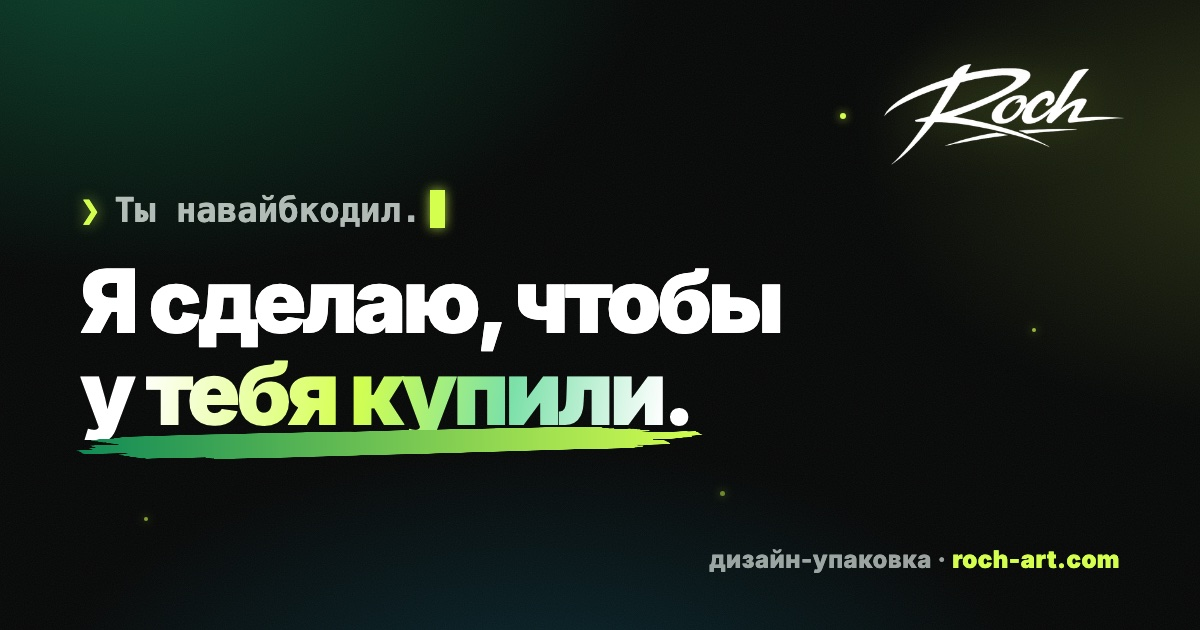
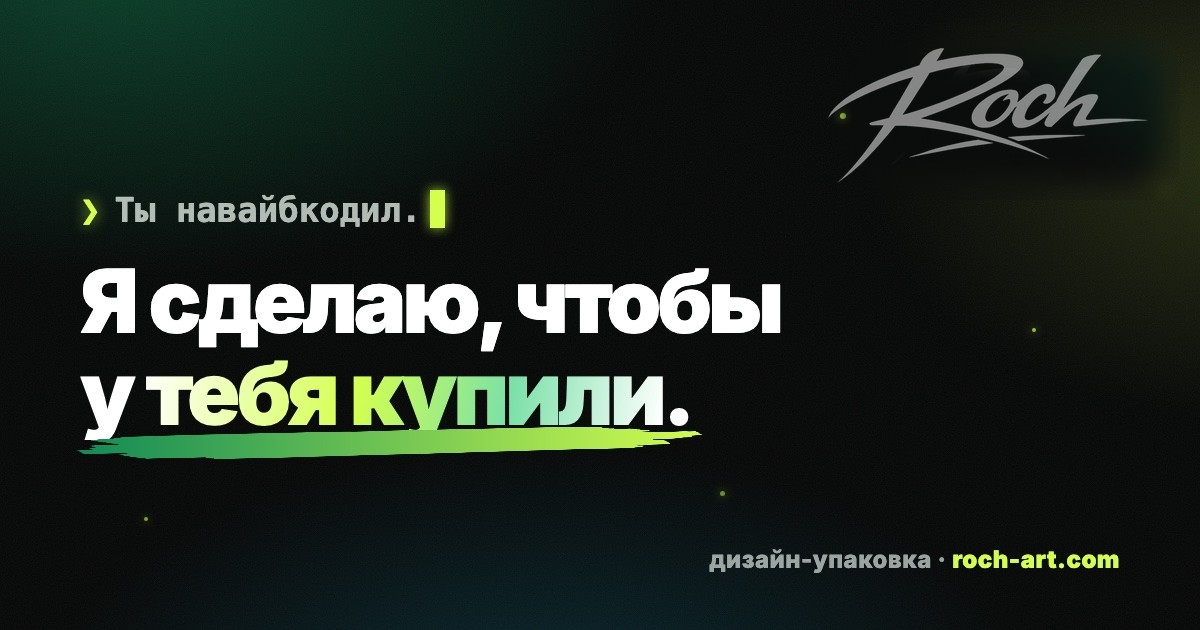
iOS-полировка: лента do-not-cross, edge-скримы (просветы UI), свайп-вниз лайтбокса и всех шитов, крестики 44-48px, авто-карусель до/после с уважением к пальцу, OG с официальным лого 50%

Changed region(s): [[0.7092, 0.0603, 0.9558, 0.2714], [0.6783, 0.1508, 0.7092, 0.181]]

diff --git a/index.html b/index.html
@@ -15,11 +15,11 @@
 <meta property="og:site_name" content="ROCH">
 <meta property="og:title" content="ROCH — дизайн-упаковка продукта: бренд, сайт, приложение">
 <meta property="og:description" content="Дизайн, аудит, геймификация. 10+ лет геймдева · 700M+ установок. Рабочий фикс, а не презентация.">
-<meta property="og:image" content="https://roch-art.com/assets/og-cover.jpg?v=3">
+<meta property="og:image" content="https://roch-art.com/assets/og-cover.jpg?v=4">
 <meta property="og:locale" content="ru_RU">
 <meta name="twitter:card" content="summary_large_image">
 <meta name="twitter:site" content="@broch">
-<meta name="twitter:image" content="https://roch-art.com/assets/og-cover.jpg?v=3">
+<meta name="twitter:image" content="https://roch-art.com/assets/og-cover.jpg?v=4">
 <link rel="icon" type="image/png" href="assets/favicon.png">
 <link rel="apple-touch-icon" href="assets/favicon.png">
 <link rel="preconnect" href="https://fonts.googleapis.com">
@@ -128,6 +128,13 @@ p.lead b{color:var(--text);font-weight:700}
   color:var(--lime);margin-bottom:14px}
 .eyebrow::before{content:'';width:22px;height:2px;border-radius:2px;background:var(--lime);
   box-shadow:0 0 8px rgba(212,255,79,.8)}
+
+/* ============ EDGE SCRIMS — контент не просвечивает под чёлкой и home-индикатором ============ */
+.edge-scrim{position:fixed;left:0;right:0;z-index:49;pointer-events:none}
+.edge-scrim.top{top:0;height:calc(env(safe-area-inset-top,0px) + 58px);
+  background:linear-gradient(180deg, rgba(5,7,6,.96) 28%, rgba(5,7,6,.62) 68%, transparent)}
+.edge-scrim.bot{bottom:0;height:calc(env(safe-area-inset-bottom,0px) + 40px);
+  background:linear-gradient(0deg, rgba(5,7,6,.96) 34%, rgba(5,7,6,.55) 72%, transparent)}
 
 /* ============ HEADER ============ */
 header{padding:16px 0 0;position:sticky;top:8px;z-index:50;transition:top .35s var(--ease)}
@@ -547,7 +554,14 @@ h1 .w i{animation-delay:var(--wd)}
   border:1px solid rgba(255,255,255,.14);
   box-shadow:0 30px 80px rgba(0,0,0,.7)}
 .lb-close{z-index:141}
-.lb .lb-close{position:absolute;top:calc(14px + env(safe-area-inset-top));right:16px}
+.lb .lb-close{position:absolute;top:calc(14px + env(safe-area-inset-top));right:14px;
+  width:48px;height:48px;border-radius:50%;border:1px solid rgba(255,255,255,.14);
+  background:rgba(16,20,17,.72);-webkit-backdrop-filter:blur(14px);backdrop-filter:blur(14px);
+  color:#fff;font-size:21px;line-height:1;display:flex;align-items:center;justify-content:center;
+  cursor:pointer;box-shadow:0 8px 26px rgba(0,0,0,.5), inset 0 1px 0 rgba(255,255,255,.14)}
+.lb .lb-close:active{transform:scale(.92)}
+/* iOS-свайп вниз: контейнер едет за пальцем и пружинит назад */
+.lb.snapback{transition:transform .3s var(--spring), opacity .3s var(--ease)}
 .lb-count{position:absolute;top:calc(22px + env(safe-area-inset-top));left:50%;transform:translateX(-50%);
   font-size:12px;font-weight:800;letter-spacing:.08em;color:var(--text2);
   font-variant-numeric:tabular-nums;pointer-events:none}
@@ -654,14 +668,15 @@ h1 .w i{animation-delay:var(--wd)}
 .chat-send:active{transform:scale(.9)}
 .chat-send svg{width:20px;height:20px;stroke:#0B1409;fill:none;stroke-width:2.2;stroke-linecap:round;stroke-linejoin:round}
 
-/* ============ MARQUEE ============ */
-.ticker-wrap{margin:14px 0 0;transform:rotate(-1.6deg);overflow:hidden;width:100%;max-width:100vw;
-  border-top:1px solid rgba(212,255,79,.25);border-bottom:1px solid rgba(212,255,79,.25);
-  background:rgba(212,255,79,.05)}
-.ticker{display:flex;width:max-content;animation:tick 22s linear infinite}
-.ticker span{padding:12px 0;font-size:13px;font-weight:800;letter-spacing:.16em;text-transform:uppercase;
-  color:var(--lime);white-space:nowrap}
-.ticker span i{font-style:normal;color:var(--text3);margin:0 16px}
+/* ============ MARQUEE — жёлтая лента «do not cross» ============ */
+.ticker-wrap{margin:18px -6% 0;width:112%;transform:rotate(-2.2deg);overflow:hidden;
+  background:var(--lime);
+  border-top:2px solid #0B1409;border-bottom:2px solid #0B1409;
+  box-shadow:0 14px 34px -12px rgba(0,0,0,.55), 0 0 44px -18px rgba(212,255,79,.5)}
+.ticker{display:flex;width:max-content;animation:tick 26s linear infinite}
+.ticker span{padding:11px 0;font-size:13px;font-weight:900;letter-spacing:.18em;text-transform:uppercase;
+  color:#0B1409;white-space:nowrap;font-variant-numeric:tabular-nums}
+.ticker span i{font-style:normal;color:#0B1409;opacity:.45;margin:0 16px}
 @keyframes tick{to{transform:translateX(-50%)}}
 
 /* ============ SERVICES ============ */
@@ -818,10 +833,11 @@ h1 .w i{animation-delay:var(--wd)}
 .copy-btn svg{width:16px;height:16px;stroke:currentColor;fill:none;stroke-width:2;stroke-linecap:round;stroke-linejoin:round}
 .copy-btn.done{background:var(--lime);color:#0B1409}
 .modal .m-tg{margin-top:14px}
-.modal .m-close{position:absolute;top:16px;right:18px;width:34px;height:34px;border-radius:50%;
+.modal .m-close{position:absolute;top:14px;right:14px;width:44px;height:44px;border-radius:50%;
   border:none;cursor:pointer;background:rgba(255,255,255,.08);color:var(--text2);
-  font-size:18px;display:flex;align-items:center;justify-content:center;
+  font-size:19px;display:flex;align-items:center;justify-content:center;
   box-shadow:inset 0 1px 0 rgba(255,255,255,.12)}
+.modal .m-close:active{transform:scale(.92)}
 
 /* ============ PRICING ============ */
 .price{padding:25px 20px;margin-top:16px}
@@ -1110,6 +1126,8 @@ footer p{font-size:12.5px;font-weight:500;color:var(--text3)}
 </style>
 </head>
 <body>
+<div class="edge-scrim top" aria-hidden="true"></div>
+<div class="edge-scrim bot" aria-hidden="true"></div>
 
 <div class="bg" aria-hidden="true">
   <div class="orbs" id="orbs">
@@ -1456,7 +1474,7 @@ footer p{font-size:12.5px;font-weight:500;color:var(--text3)}
 <!-- ============ TICKER ============ -->
 <div class="ticker-wrap" aria-hidden="true">
   <div class="ticker" id="ticker">
-    <span>Дизайн-упаковка<i>◆</i>Бренд<i>◆</i>Сайт<i>◆</i>Приложение<i>◆</i>Презентация<i>◆</i>Геймификация<i>◆</i>700M+ установок<i>◆</i></span>
+    <span>⚠ Do not ship ugly<i>◆</i>Дизайн-упаковка<i>◆</i>Бренд<i>◆</i>Сайт<i>◆</i>Приложение<i>◆</i>Презентация<i>◆</i>Геймификация<i>◆</i>700M+ установок<i>◆</i></span>
   </div>
 </div>
 
@@ -1922,7 +1940,7 @@ footer p{font-size:12.5px;font-weight:500;color:var(--text3)}
   exListEls.forEach(function(_, i){
     var d = document.createElement('button');
     d.type = 'button'; d.className = 'morph-dot' + (i === 0 ? ' on' : '');
-    d.addEventListener('click', function(){ goEx(i); });
+    d.addEventListener('click', function(){ exTouchMark(); goEx(i); });
     exDots.appendChild(d);
   });
   var dots = exDots.querySelectorAll('.morph-dot');
@@ -1949,7 +1967,7 @@ footer p{font-size:12.5px;font-weight:500;color:var(--text3)}
     return ((clientX - r.left) / r.width) * 100;
   }
   function onDown(e){
-    dragging = true; firstTouch();
+    dragging = true; firstTouch(); exTouchMark();
     onMove(e);
   }
   function onMove(e){
@@ -1958,7 +1976,7 @@ footer p{font-size:12.5px;font-weight:500;color:var(--text3)}
     setSplit(stageX(x));
     if(e.cancelable && e.touches) e.preventDefault();
   }
-  function onUp(){ dragging = false; }
+  function onUp(){ if(dragging) exTouchMark(); dragging = false; }
 
   mKnob.addEventListener('mousedown', onDown);
   mKnob.addEventListener('touchstart', onDown, {passive:false});
@@ -1969,8 +1987,23 @@ footer p{font-size:12.5px;font-weight:500;color:var(--text3)}
   window.addEventListener('mouseup', onUp);
   window.addEventListener('touchend', onUp);
 
-  exPrev.addEventListener('click', function(e){ e.stopPropagation(); goEx(exIdx - 1); });
-  exNext.addEventListener('click', function(e){ e.stopPropagation(); goEx(exIdx + 1); });
+  exPrev.addEventListener('click', function(e){ e.stopPropagation(); exTouchMark(); goEx(exIdx - 1); });
+  exNext.addEventListener('click', function(e){ e.stopPropagation(); exTouchMark(); goEx(exIdx + 1); });
+
+  /* авто-карусель макетов: листаем сами, но ТОЛЬКО пока пользователь ничего не трогает.
+     Палец на разделителе / недавний тап = стоп; вне вьюпорта и в фоне — тоже. */
+  var exAutoLast = 0, exVisible = false;
+  function exTouchMark(){ exAutoLast = Date.now(); }
+  if('IntersectionObserver' in window){
+    new IntersectionObserver(function(en){ exVisible = en[0].isIntersecting; }, {threshold:.35}).observe(morph);
+  }
+  if(!reduced){
+    setInterval(function(){
+      if(document.hidden || !exVisible || dragging) return;
+      if(Date.now() - exAutoLast < 8000) return; /* рассматривает — не дёргаем */
+      goEx(exIdx + 1);
+    }, 4500);
+  }
 
   /* init */
   exListEls[0].classList.add('active');
@@ -2282,11 +2315,80 @@ footer p{font-size:12.5px;font-weight:500;color:var(--text3)}
   lb.addEventListener('click', function(e){
     if(e.target === lb || e.target.classList.contains('lb-slide')) closeLb();
   });
+
+  /* iOS-жест: свайп вниз закрывает лайтбокс, недотянул — пружинит обратно */
+  var lbY0 = null, lbX0 = null, lbDy = 0, lbVert = false;
+  lbTrack.addEventListener('touchstart', function(e){
+    lbY0 = e.touches[0].clientY; lbX0 = e.touches[0].clientX;
+    lbDy = 0; lbVert = false;
+    lb.classList.remove('snapback');
+  }, {passive:true});
+  lbTrack.addEventListener('touchmove', function(e){
+    if(lbY0 === null) return;
+    var dy = e.touches[0].clientY - lbY0;
+    var dx = e.touches[0].clientX - lbX0;
+    /* вертикальным жест признаём один раз, чтобы не спорил с горизонтальной прокруткой слайдов */
+    if(!lbVert && dy > 14 && Math.abs(dy) > Math.abs(dx) * 1.4) lbVert = true;
+    if(lbVert){
+      lbDy = Math.max(0, dy);
+      lb.style.transform = 'translateY(' + lbDy + 'px)';
+      lb.style.opacity = String(1 - Math.min(.55, lbDy / 520));
+    }
+  }, {passive:true});
+  lbTrack.addEventListener('touchend', function(){
+    if(lbVert && lbDy > 96){
+      closeLb();
+      lb.style.transform = ''; lb.style.opacity = '';
+    } else if(lbVert){
+      lb.classList.add('snapback');
+      lb.style.transform = ''; lb.style.opacity = '';
+      setTimeout(function(){ lb.classList.remove('snapback'); }, 320);
+    }
+    lbY0 = null; lbVert = false; lbDy = 0;
+  });
   document.addEventListener('keydown', function(e){
     if(!lb.classList.contains('open')) return;
     if(e.key === 'Escape') closeLb();
     if(e.key === 'ArrowRight') lbTrack.scrollBy({left: lbTrack.clientWidth, behavior:'smooth'});
     if(e.key === 'ArrowLeft') lbTrack.scrollBy({left: -lbTrack.clientWidth, behavior:'smooth'});
+  });
+
+  /* iOS-жест: свайп-вниз закрывает нижние шиты (оплата / проект / чат).
+     Тянется только когда контент шита проскроллен в самый верх — как системные шиты iOS. */
+  Array.prototype.forEach.call(document.querySelectorAll('.modal-back'), function(back){
+    var sheet = back.querySelector('.modal');
+    if(!sheet) return;
+    var y0 = null, dy = 0, pulling = false;
+    sheet.addEventListener('touchstart', function(e){
+      y0 = e.touches[0].clientY; dy = 0; pulling = false;
+    }, {passive:true});
+    sheet.addEventListener('touchmove', function(e){
+      if(y0 === null) return;
+      var d = e.touches[0].clientY - y0;
+      if(!pulling){
+        if(d > 8 && sheet.scrollTop <= 0){ pulling = true; sheet.style.transition = 'none'; }
+        else if(d < -4){ y0 = null; return; } /* обычный скролл вверх — не мешаем */
+      }
+      if(pulling){
+        dy = Math.max(0, d);
+        sheet.style.transform = 'translateY(' + (dy * 0.9) + 'px)';
+        if(e.cancelable) e.preventDefault();
+      }
+    }, {passive:false});
+    sheet.addEventListener('touchend', function(){
+      if(pulling){
+        sheet.style.transition = '';
+        if(dy > 110){
+          var x = sheet.querySelector('.m-close');
+          /* инлайн-transform снимаем ПОСЛЕ снятия .open — шит доезжает вниз пружиной */
+          setTimeout(function(){ sheet.style.transform = ''; }, 40);
+          if(x){ x.click(); } else { back.classList.remove('open'); }
+        } else {
+          sheet.style.transform = '';
+        }
+      }
+      y0 = null; pulling = false; dy = 0;
+    });
   });
 
   /* ===== MASCOT — порт с roch-audit.com (спрайты + чат + баблы) ===== */